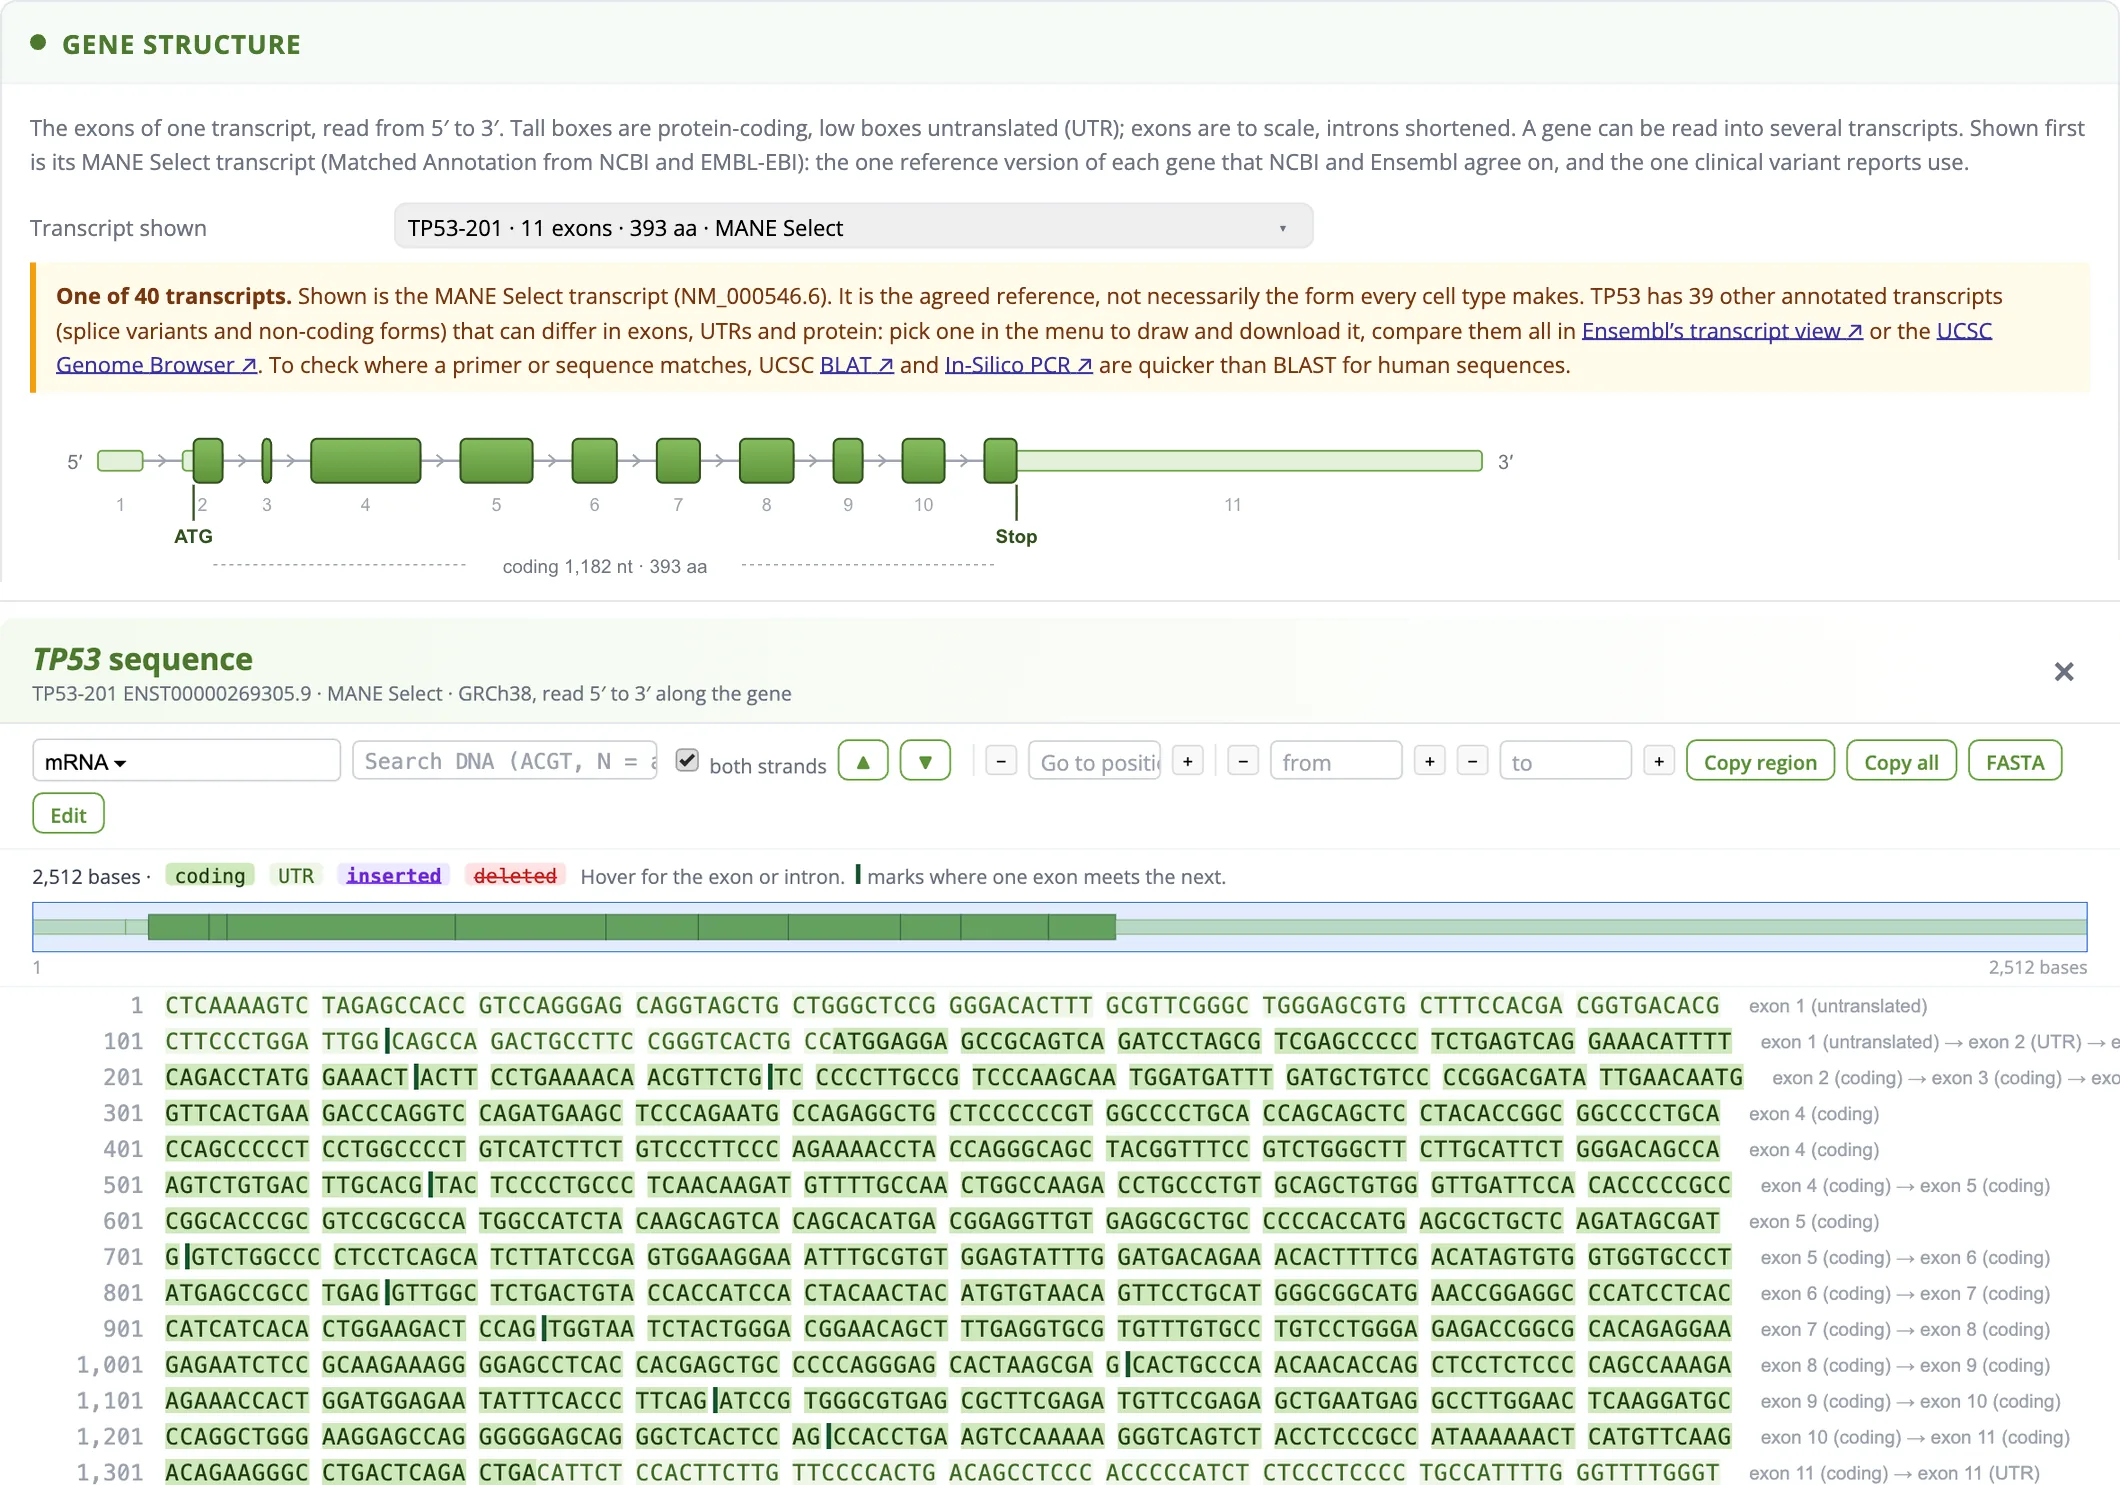
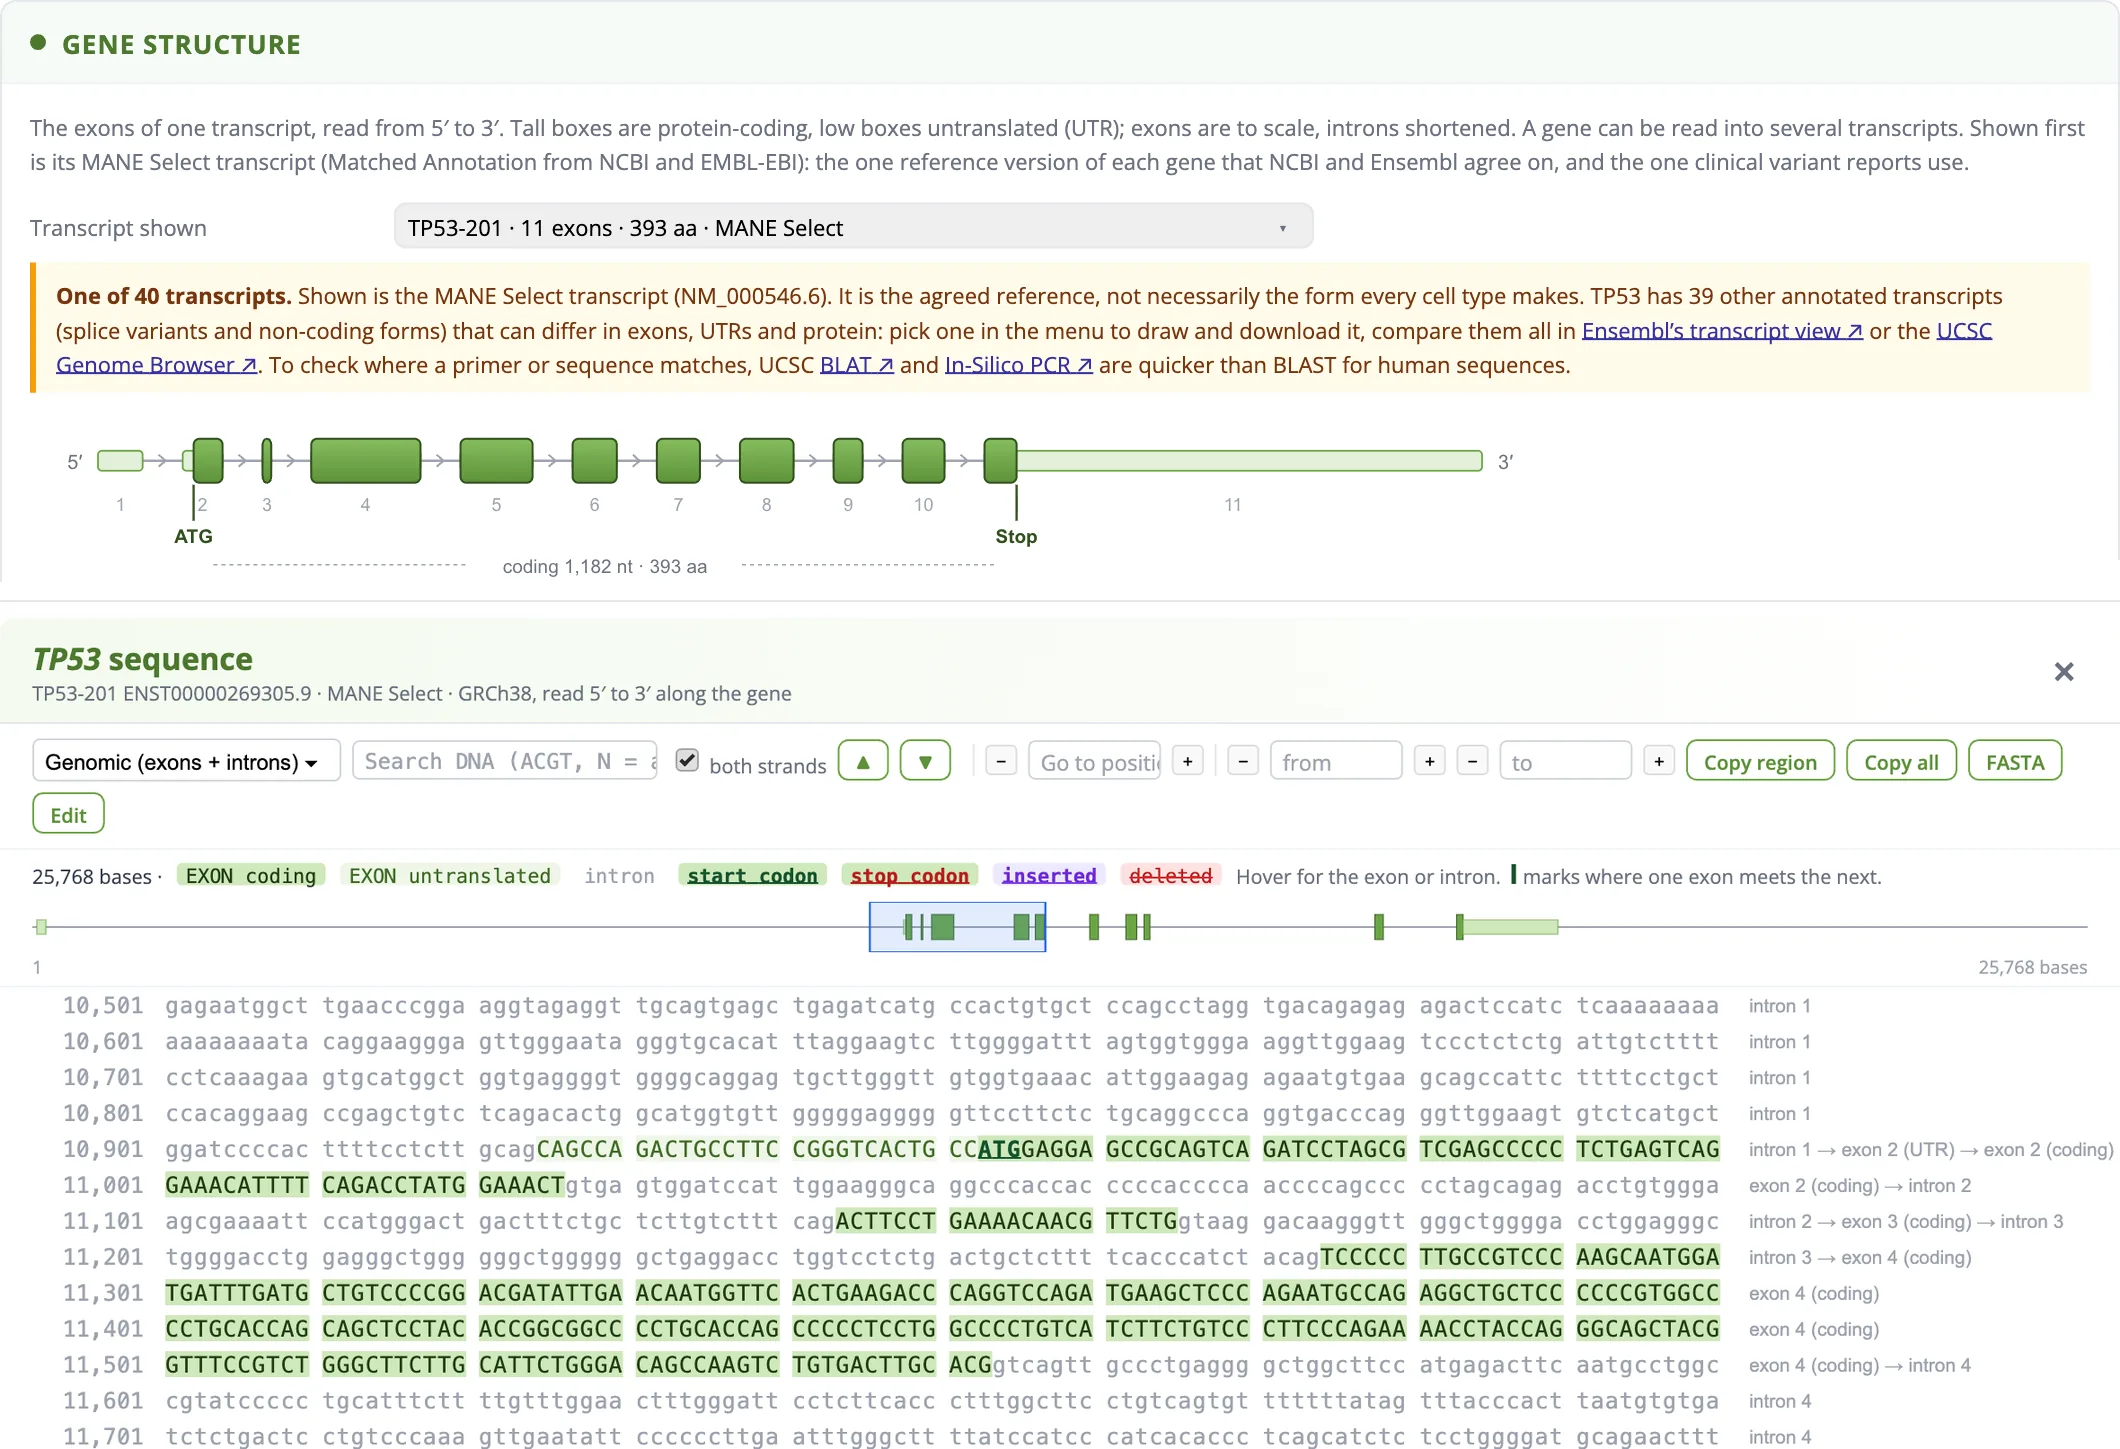
v.91.52: tour: sequence viewer example in the genomic view
Claude-Session: https://claude.ai/code/session_01GrRsah6zkLaafT5s7nhzFW

diff --git a/index.html b/index.html
@@ -3017,6 +3017,10 @@
                 <button onclick="this.closest('#changelogModal').style.display='none'" style="background:none;border:none;font-size:20px;cursor:pointer;">&times;</button>
             </div>
             <div style="font-size:12px; line-height:1.6; color:#374151;">
+                <p><strong>v.91.52 (2026-10-25)</strong></p>
+                <ul>
+                    <li>Tour of the app: the sequence viewer example shows the genomic view (TP53 exons 2 to 4 between their introns, with the start codon marked) instead of the mRNA.</li>
+                </ul>
                 <p><strong>v.91.51 (2026-10-25)</strong></p>
                 <ul>
                     <li>Tour of the app: the mRNA network example has a compact, evenly spaced layout (no gene pulled far out), at the same node size as the screen-results network, with the legends still aligned.</li>
@@ -8859,7 +8863,7 @@
             </span>
             <!-- Positioned off the row's right end (see #versionBadge CSS), so
                  it sits next to YouTube without moving the centered links. -->
-            <a href="#" id="versionBadge" onclick="event.preventDefault();document.getElementById('changelogModal').style.display='flex'" style="font-family:monospace; font-size:11px; background:#f3f4f6; padding:2px 8px; border-radius:10px; color:#6b7280; border:1px solid #d1d5db; font-weight:400;">v.91.51</a>
+            <a href="#" id="versionBadge" onclick="event.preventDefault();document.getElementById('changelogModal').style.display='flex'" style="font-family:monospace; font-size:11px; background:#f3f4f6; padding:2px 8px; border-radius:10px; color:#6b7280; border:1px solid #d1d5db; font-weight:400;">v.91.52</a>
         </span>
     </div>
 
@@ -12238,6 +12242,6 @@
     </div>
 
     <script src="app.js?v=v91_50"></script>
-    <script src="tour.js?v=v91_51"></script>
+    <script src="tour.js?v=v91_52"></script>
 </body>
 </html>

diff --git a/tour.js b/tour.js
@@ -442,7 +442,7 @@
             ])}
         </div>
         <div class="tour-wide-shot" style="margin-top:0;">
-            ${shot('gb_seq', 'The TP53 exon structure and its mRNA in the sequence viewer', 'tp53seq', { cap: `${gi('TP53')}: the exons of its MANE Select transcript, and the mRNA in the sequence viewer with the exon junctions marked.`, btn: 'Open TP53 in the Gene Browser' })}
+            ${shot('gb_seq', 'The TP53 exon structure and its genomic sequence in the sequence viewer', 'tp53seq', { cap: `${gi('TP53')}: the exons of its MANE Select transcript, and the gene in the sequence viewer, exons in green between the introns and the start codon marked.`, btn: 'Open TP53 in the Gene Browser' })}
         </div>
     </div>
     <div class="tour-wrap tour-next-row">${nextBtn('tour-more', 'Other features')}</div>
